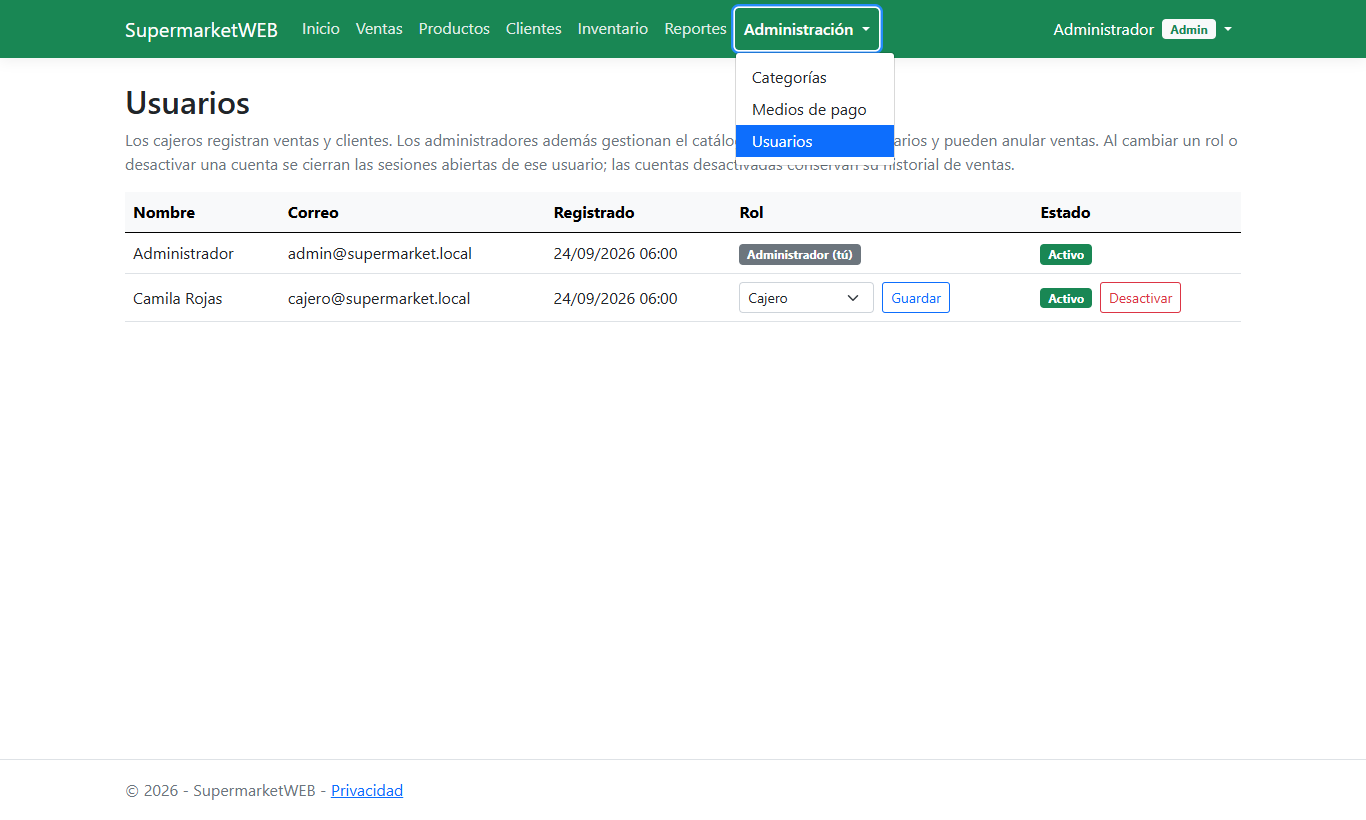
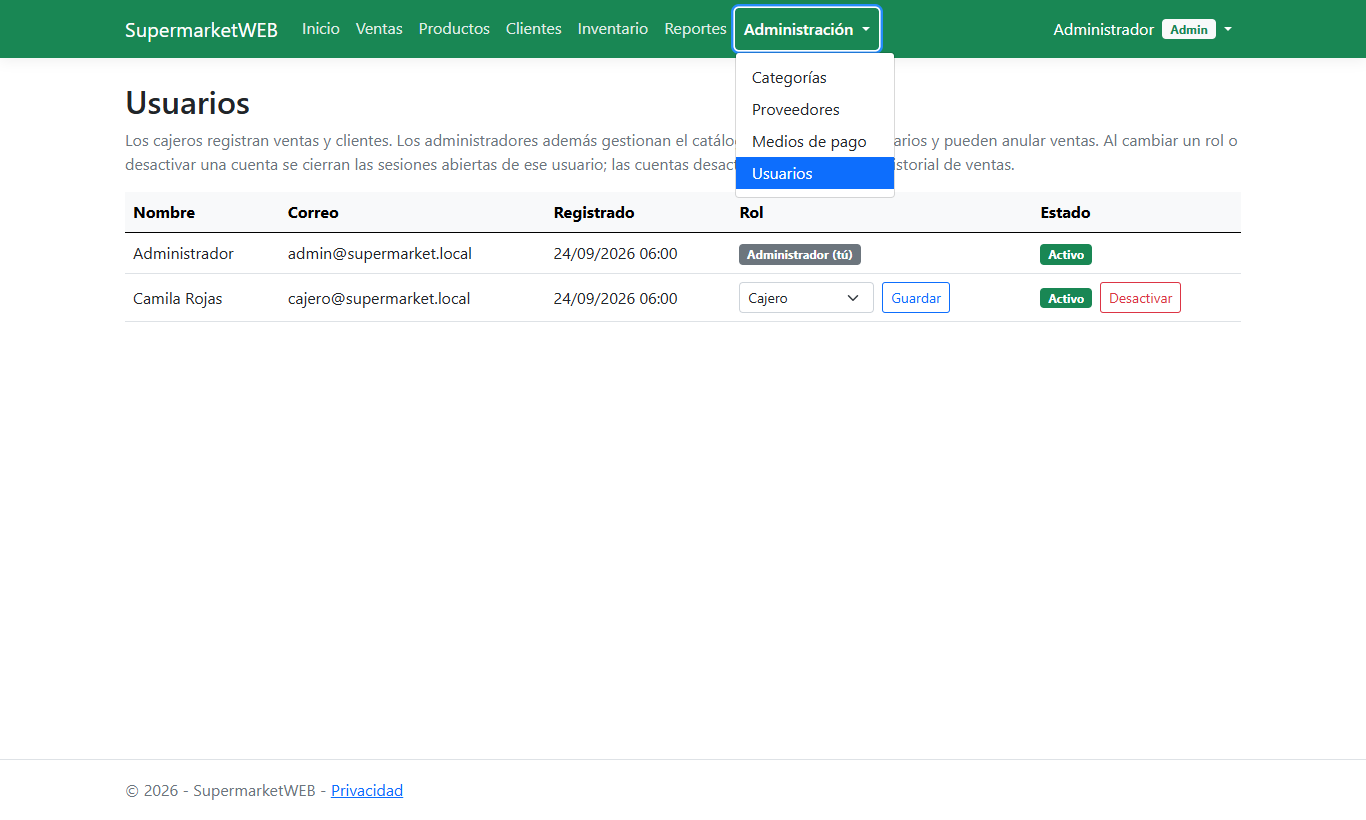
docs: actualizar README y capturas con proveedores y utilidad
- Insignias estáticas de stack y pruebas (sin depender de CI).
- Funcionalidad de proveedores y costos, permisos, modelo de datos y
  decisión de diseño sobre costo promedio y utilidad.
- Capturas regeneradas con el recorrido en navegador; nueva captura de
  proveedores y reportes con utilidad y margen.

Changed region(s): [[0.5227, 0.122, 0.6764, 0.2439]]

diff --git a/tools/e2e/capture.js b/tools/e2e/capture.js
@@ -90,6 +90,9 @@ async function main() {
     await page.goto(`${BASE}/Products`);
     await shot('productos');
 
+    await page.goto(`${BASE}/Suppliers`);
+    await shot('proveedores');
+
     await page.goto(`${BASE}/Users`);
     await shot('usuarios');
 

diff --git a/README.md b/README.md
@@ -1,5 +1,11 @@
 # SupermarketWEB
 
+![.NET 10](https://img.shields.io/badge/.NET-10-512BD4?logo=dotnet&logoColor=white)
+![ASP.NET Core Razor Pages](https://img.shields.io/badge/ASP.NET%20Core-Razor%20Pages-512BD4)
+![EF Core + SQLite](https://img.shields.io/badge/EF%20Core-SQLite-003B57?logo=sqlite&logoColor=white)
+![Pruebas](https://img.shields.io/badge/pruebas-169%20superadas-2ea44f)
+![Docker](https://img.shields.io/badge/Docker-listo-2496ED?logo=docker&logoColor=white)
+
 Aplicación web para la gestión de un supermercado construida con **ASP.NET Core Razor Pages (.NET 10)** y **Entity Framework Core**. Permite registrar ventas con control de inventario y administrar categorías, productos, clientes y medios de pago, con autenticación de usuarios y un panel con indicadores del negocio.
 
 ![Panel de inicio](docs/screenshots/dashboard.png)
@@ -12,14 +18,16 @@ Tomadas de la aplicación en modo Production con los [datos de demostración](#p
 | :---: | :---: |
 | **Nueva venta**: filas dinámicas con subtotales en vivo | **Comprobante** imprimible, con opción de anular |
 | ![Nueva venta](docs/screenshots/nueva-venta.png) | ![Comprobante de venta](docs/screenshots/comprobante.png) |
-| **Reportes**: ingresos, más vendidos y medios de pago | **Kardex**: cada movimiento con su saldo y usuario |
+| **Reportes**: ingresos, utilidad y margen por producto | **Kardex**: cada movimiento con su saldo y usuario |
 | ![Reportes de ventas](docs/screenshots/reportes.png) | ![Movimientos de inventario](docs/screenshots/inventario.png) |
 | **Historial de ventas** con anuladas y totales del periodo | **Productos** con alertas de stock bajo y agotado |
 | ![Historial de ventas](docs/screenshots/ventas.png) | ![Productos](docs/screenshots/productos.png) |
-| **Usuarios**: roles y activación de cuentas | **Menú de administración** (solo administradores) |
-| ![Usuarios](docs/screenshots/usuarios.png) | ![Menú de administración](docs/screenshots/menu-administracion.png) |
-| **Inicio de sesión** | **Vista móvil** del cajero |
-| ![Inicio de sesión](docs/screenshots/login.png) | <img src="docs/screenshots/movil-cajero.png" alt="Vista móvil del cajero" width="260"> |
+| **Proveedores** con sus entradas de mercancía | **Usuarios**: roles y activación de cuentas |
+| ![Proveedores](docs/screenshots/proveedores.png) | ![Usuarios](docs/screenshots/usuarios.png) |
+| **Menú de administración** (solo administradores) | **Vista móvil** del cajero |
+| ![Menú de administración](docs/screenshots/menu-administracion.png) | <img src="docs/screenshots/movil-cajero.png" alt="Vista móvil del cajero" width="260"> |
+| **Inicio de sesión** | |
+| ![Inicio de sesión](docs/screenshots/login.png) | |
 
 ## Funcionalidades
 
@@ -28,7 +36,8 @@ Tomadas de la aplicación en modo Production con los [datos de demostración](#p
 - **Roles** de administrador y cajero, con administración de usuarios. Un cambio de rol se aplica de inmediato y cierra las sesiones abiertas del usuario. Las cuentas se desactivan en lugar de borrarse, para conservar su historial de ventas.
 - **Ventas**: registro con varios productos, cliente opcional (consumidor final) y medio de pago; descuento automático del stock, comprobante imprimible, anulación con devolución del inventario e historial filtrable por fechas.
 - **Inventario (kardex)**: cada cambio de stock queda registrado con su tipo (saldo inicial, entrada, ajuste, venta o anulación), usuario, motivo y saldo resultante. Entradas de mercancía y ajustes por conteo físico con motivo obligatorio.
-- **Reportes** (administradores): ingresos, ticket promedio, ventas por día, productos más vendidos y desglose por medio de pago para cualquier rango de fechas, con exportación del detalle a CSV.
+- **Proveedores y costos**: las entradas de mercancía registran proveedor y costo unitario, que actualizan el costo promedio ponderado de cada producto.
+- **Reportes** (administradores): ingresos, utilidad bruta, margen, ticket promedio, ventas por día, productos más vendidos con su margen y desglose por medio de pago para cualquier rango de fechas, con exportación del detalle a CSV.
 - **Panel de inicio** con ventas del día, últimas ventas, valor del inventario y productos con stock bajo o agotados.
 - **Categorías**: CRUD con búsqueda, nombre único y bloqueo del borrado si tienen productos asociados. Productos, clientes y medios de pago con ventas tampoco pueden eliminarse, para conservar el historial.
 - **Productos**: CRUD con paginación, búsqueda, filtro por categoría y por stock bajo. El stock no se edita a mano: cambia solo con movimientos de inventario.
@@ -81,6 +90,7 @@ También puedes crear tu propia cuenta desde **Registrarse**: entrará como caje
 | Administrar usuarios y roles | | ✔ |
 | Reportes y exportación CSV | | ✔ |
 | Entradas, ajustes e historial de inventario | | ✔ |
+| Proveedores | | ✔ |
 
 ### Con Docker
 
@@ -131,12 +141,19 @@ erDiagram
     PAYMODE ||--o{ SALE : "se paga con"
     USER ||--o{ SALE : registra
     PRODUCT ||--o{ STOCK_MOVEMENT : registra
+    SUPPLIER |o--o{ STOCK_MOVEMENT : abastece
+    SUPPLIER {
+        int Id
+        string Name "único"
+        string TaxId "NIT único"
+    }
     SALE |o--o{ STOCK_MOVEMENT : origina
     STOCK_MOVEMENT {
         int Id
         string Type "Initial | Receipt | Adjustment | Sale | SaleCancellation"
         int Quantity "positiva o negativa"
         int StockAfter
+        decimal UnitCost "en entradas"
         string Note
     }
     SALE {
@@ -149,6 +166,7 @@ erDiagram
         int Id
         string ProductName "copia al vender"
         decimal UnitPrice "copia al vender"
+        decimal UnitCost "costo promedio al vender"
         int Quantity
     }
     CATEGORY {
@@ -161,6 +179,7 @@ erDiagram
         string Name
         decimal Price
         int Stock
+        decimal AverageCost "promedio ponderado"
         int CategoryId
     }
     CUSTOMER {
@@ -189,6 +208,7 @@ erDiagram
 - **Razor Pages con el `DbContext` en cada página.** Para un CRUD de este tamaño evita capas sin lógica propia; las reglas compartidas viven en clases base por módulo (`ProductFormPageModel`, `CustomerFormPageModel`…).
 - **Servicio de ventas.** Registrar una venta toca varias tablas, así que vive en `SaleService` y no en la página. Corre dentro de una transacción y descuenta el stock con un `UPDATE ... WHERE Stock >= cantidad`: si dos cajas venden el último producto al mismo tiempo, solo una lo logra y la otra se revierte completa, sin dejar stock negativo. Hay una prueba que simula esa carrera.
 - **El stock solo cambia mediante movimientos.** `InventoryService` es el único punto que modifica el stock y siempre deja un `StockMovement`, de modo que la suma de movimientos de un producto es igual a su stock (hay una prueba de ese invariante). Los ajustes por conteo usan concurrencia optimista: si se vendió algo mientras se contaba, el ajuste se rechaza en lugar de borrar esa venta del inventario.
+- **Costo promedio ponderado y utilidad honesta.** Cada entrada con costo recalcula el costo promedio del producto y cada venta guarda el costo vigente, así la utilidad de una venta no cambia con compras posteriores. Las ventas de productos sin costo registrado no entran en la utilidad ni en el margen, y el reporte indica cuánto ingreso quedó fuera, en lugar de mostrar un margen inflado.
 - **Ventas como registro histórico.** Cada línea guarda el nombre y el precio vigentes al vender, así el comprobante no cambia si después se edita el producto. Las ventas se anulan, no se borran.
 - **Exportación CSV segura.** Sigue RFC 4180, incluye BOM UTF-8 para que Excel muestre bien las tildes y antepone `'` a los textos que empiezan con `=`, `+`, `-` o `@`, para evitar la inyección de fórmulas al abrir el archivo.
 - **Fechas en UTC, días en hora local.** Las ventas se guardan en UTC y los filtros y reportes agrupan por el día local del servidor; `TimeProvider` permite probar esos límites con una zona horaria fija.
